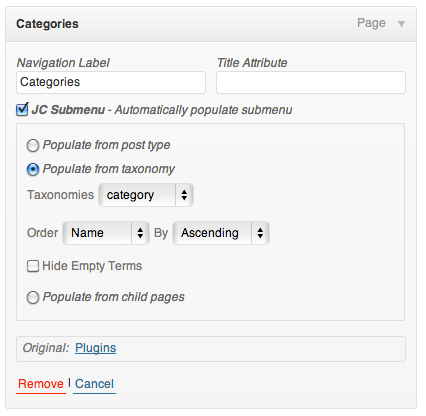
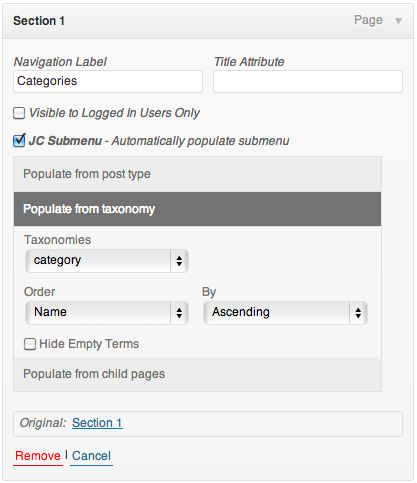
Screenshot update, remove split notification message
git-svn-id: http://plugins.svn.wordpress.org/jc-submenu/trunk@756321 b8457f37-d9ea-0310-8a92-e5e31aec5664

diff --git a/submenu.php b/submenu.php
@@ -3,7 +3,7 @@
 	Plugin Name: JC Submenu
 	Plugin URI: http://jamescollings.co.uk/blog/jc-submenu-dynamic-wordpress-menu-plugin/
 	Description: Wordpress Submenu Plugin, automatically populate your navigation menus with custom post_types, taxonomies, or child pages. An easy to use plugin created to be a lightweight menu extension.
-	Version: 0.3
+	Version: 0.3.1
 	Author: James Collings
 	Author URI: http://www.jamescollings.co.uk
  */
@@ -16,10 +16,10 @@ $JCSubmenu = new JCSubmenu();
  * Core plugin file, load all required classes
  * 
  * @author James Collings <james@jclabs.co.uk>
- * @version 0.3
+ * @version 0.3.1
  */
 class JCSubmenu{
-	var $version = '0.3';
+	var $version = '0.3.1';
 	var $plugin_dir = false;
 	var $plugin_url = false;
 	var $prefix = 'jc-submenu';

diff --git a/SubmenuWalkers.php b/SubmenuWalkers.php
@@ -222,7 +222,7 @@ class JC_Submenu_Nav_Walker extends Walker_Nav_Menu {
 		/**
 		 * Check to see if depth matches menu start and is split section
 		 */
-		if(($depth == $this->menu_start) && $item->split_section){
+		if(($depth == $this->menu_start) && isset($item->split_section) && $item->split_section){
 			$this->split = true;
 		}
  		
